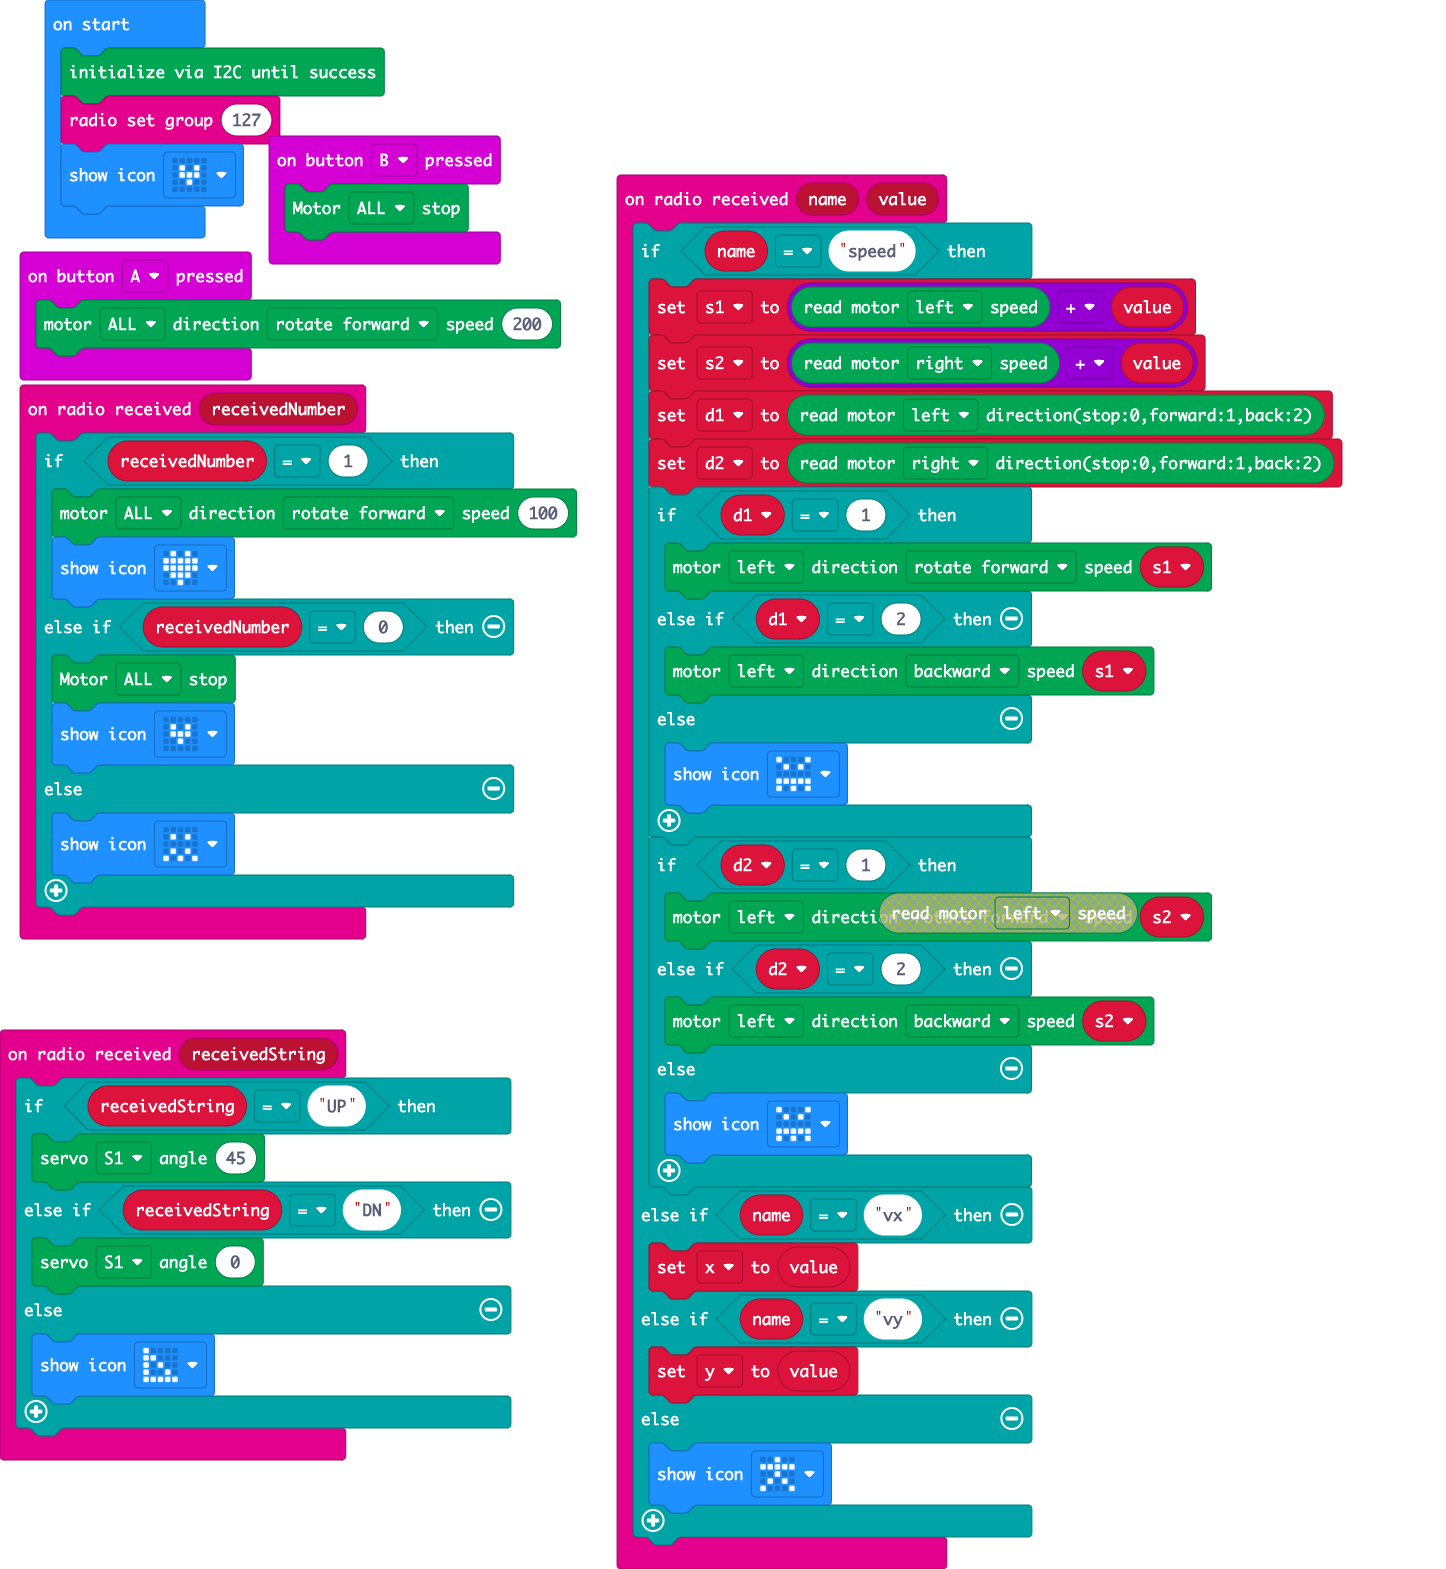
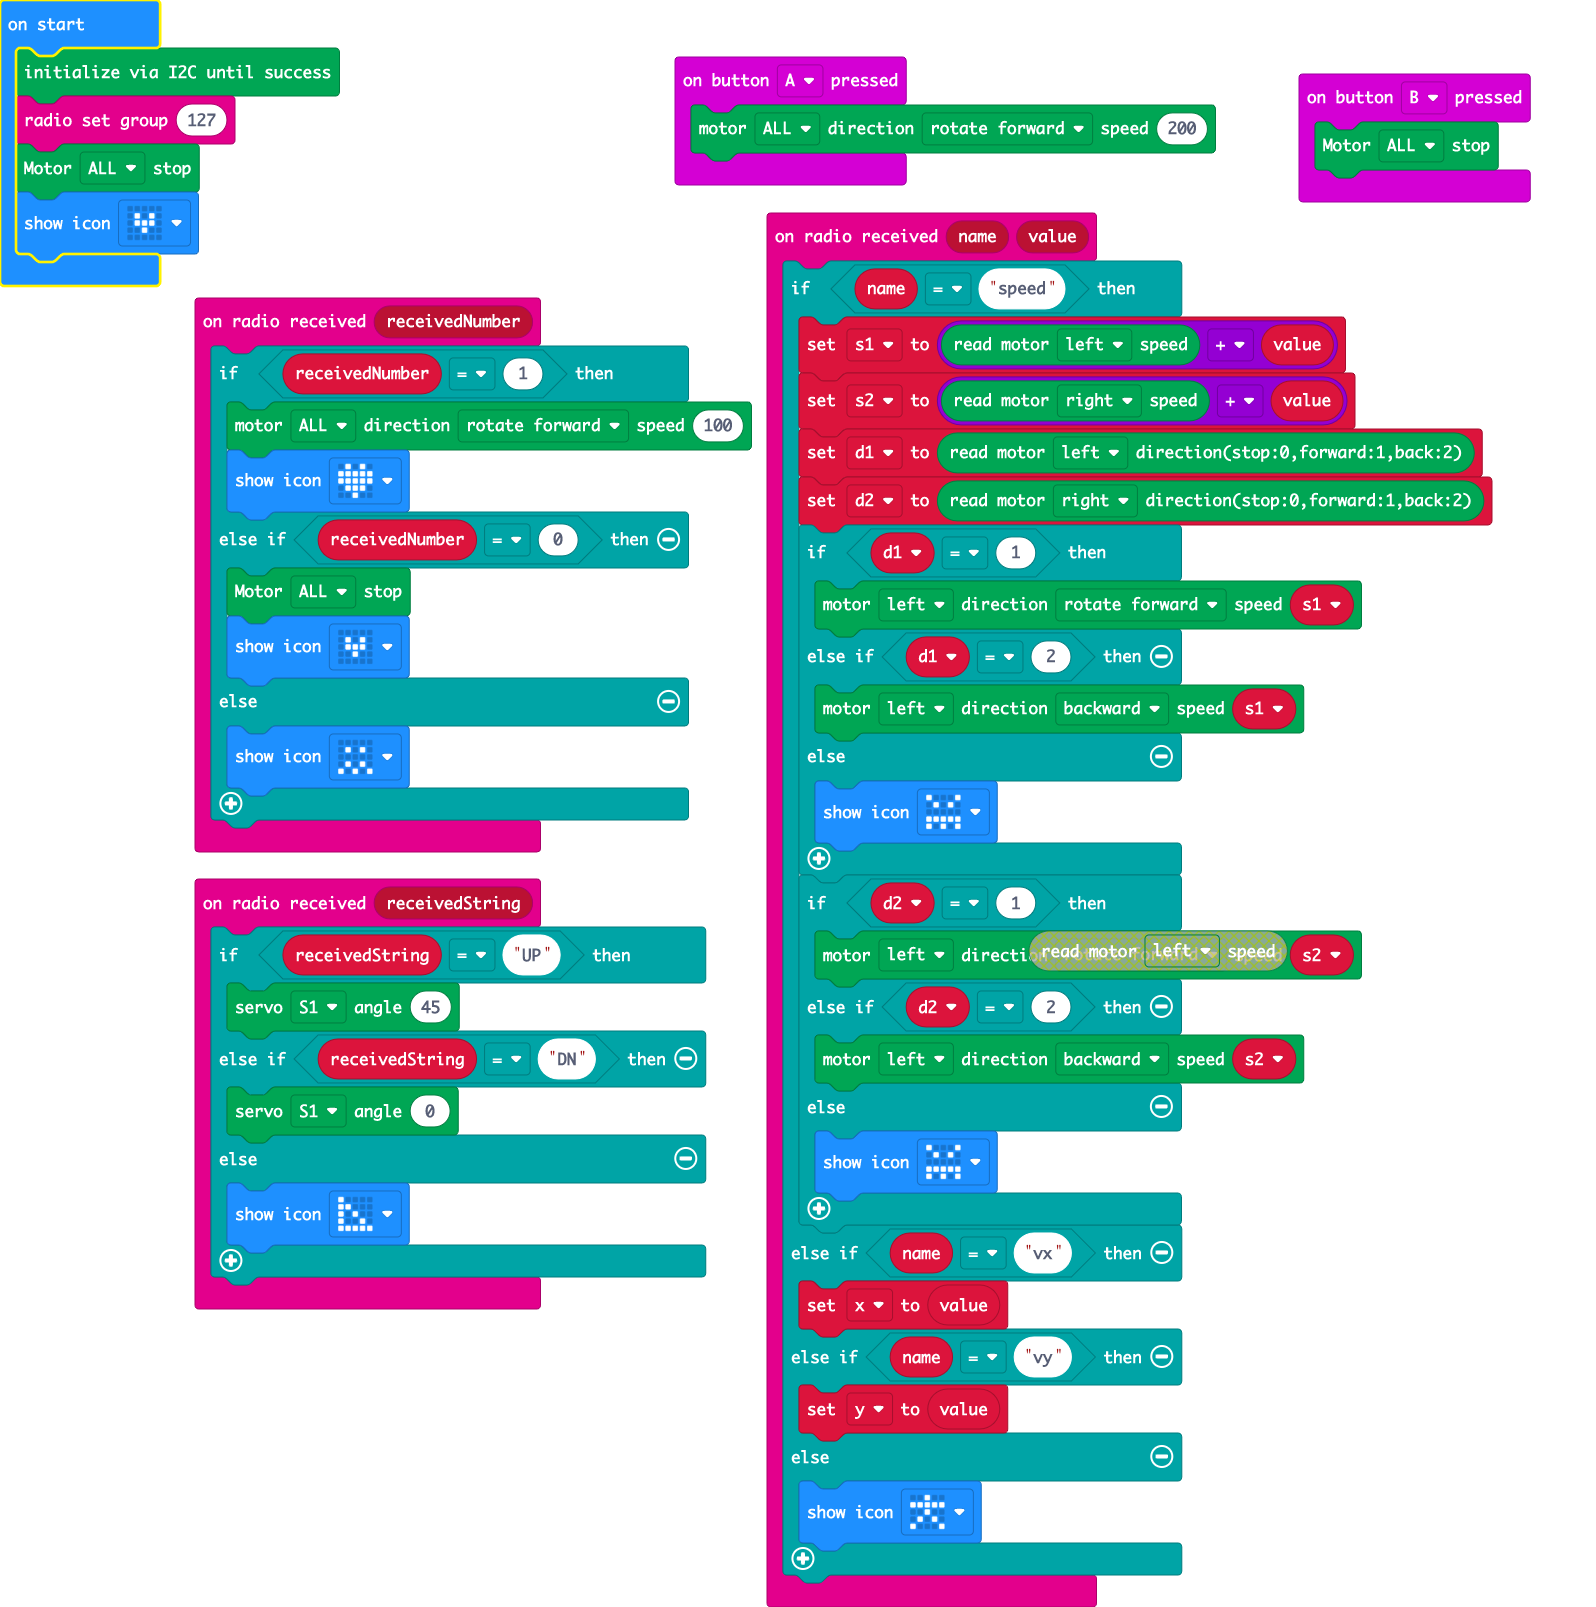
Update main.blocks, main.ts

diff --git a/main.ts b/main.ts
@@ -60,4 +60,5 @@ let s2 = 0
 let s1 = 0
 DFRobotMaqueenPlus.I2CInit()
 radio.setGroup(127)
+DFRobotMaqueenPlus.mototStop(Motors.ALL)
 basic.showIcon(IconNames.SmallHeart)
